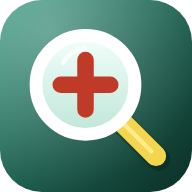
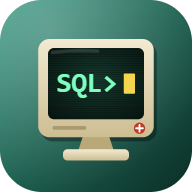
Icone novo: o computador do hospital com SQL> na tela
Troca a lupa com a cruz pelo computador das fases (tela verde com "SQL>" e
cursor amarelo, cruz vermelha no canto). Gerado em todos os tamanhos do site
(favicon, PWA, maskable, Apple) e do APK (icone redondo, adaptativo com frente
e fundo, e telas de abertura).

diff --git a/sw.js b/sw.js
@@ -1,6 +1,6 @@
 // Gerado por scripts/gerar-sw.js. Não edite à mão.
 // Guarda o jogo no aparelho para funcionar sem internet.
-var VERSAO = "db8331508b";
+var VERSAO = "30716c6048";
 var CACHE = "misterio-sql-" + VERSAO;
 var ARQUIVOS = [
   "./",
